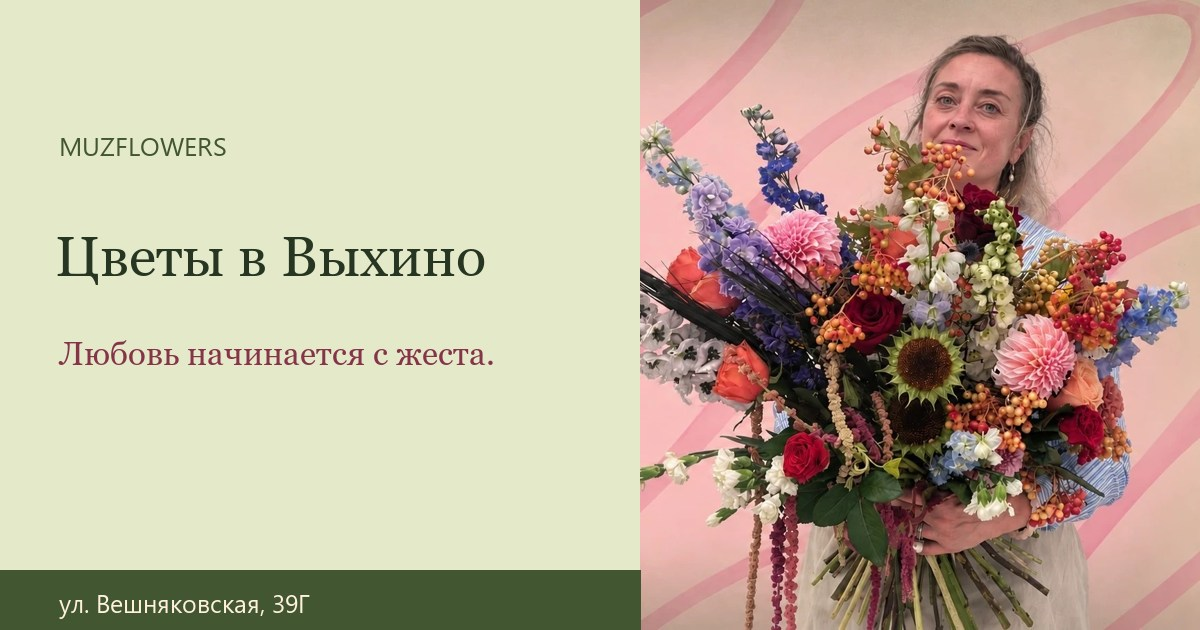
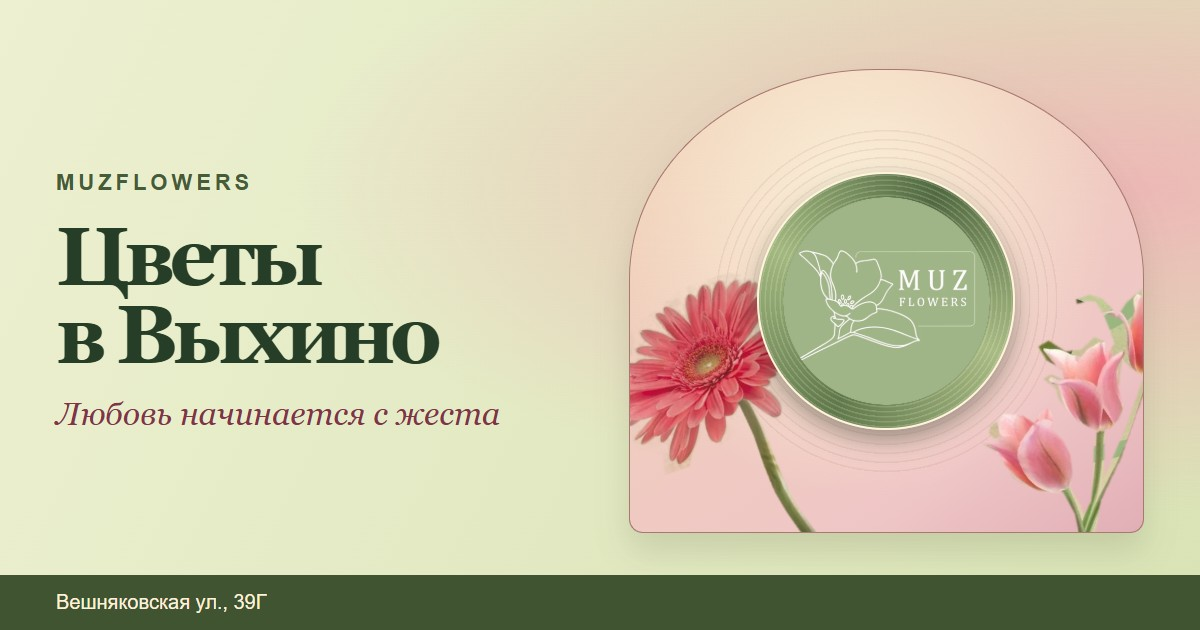
Replace homepage portrait with floral record artwork

diff --git a/static/shop/css/design.css b/static/shop/css/design.css
@@ -48,25 +48,38 @@
   font-size: .9rem;
   font-weight: 800;
 }
-.design-hero__visual { position: relative; max-width: 565px; width: 100%; justify-self: end; }
-.design-hero__photo {
+.design-hero__visual {
+  position: relative;
+  justify-self: end;
+  display: grid;
+  place-items: center;
+  max-width: 565px;
   width: 100%;
-  height: auto;
   aspect-ratio: 1.11;
-  object-fit: cover;
-  object-position: 51% 42%;
+  overflow: hidden;
   border-radius: 48% 48% .85rem .85rem / 45% 45% .85rem .85rem;
   border: 1px solid #a87971;
+  background: radial-gradient(ellipse at 45% 32%, #fbf2d9, transparent 63%),
+    linear-gradient(145deg, #f1d4b7, #efc6c6 76%, #e1aeb6);
   box-shadow: 0 18px 32px #4c483329;
 }
-.design-hero__record {
+.design-hero__visual::before {
+  content: "";
   position: absolute;
-  right: clamp(.65rem, 2.2vw, 1.7rem);
-  bottom: clamp(.65rem, 2.2vw, 1.55rem);
-  width: clamp(119px, 14vw, 208px);
+  width: 68%;
+  aspect-ratio: 1;
+  border-radius: 50%;
+  background: repeating-radial-gradient(circle, transparent 0 7px, #9c685e1c 8px 9px);
+}
+.design-hero__flower { position: absolute; height: auto; pointer-events: none; }
+.design-hero__flower--gerbera { width: 42%; left: -1%; bottom: -14%; transform: rotate(-19deg); }
+.design-hero__flower--tulips { width: 30%; right: 0; bottom: -15%; transform: rotate(23deg); }
+.design-hero__record {
+  position: relative;
+  width: clamp(128px, 53%, 258px);
   display: grid;
   justify-items: center;
-  gap: .5rem;
+  gap: .65rem;
 }
 .design-hero__disc {
   display: block;
@@ -228,10 +241,9 @@
 
 @media (max-width: 760px) {
   .design-hero__inner { grid-template-columns: 1fr; gap: 1.3rem; padding-top: 1.6rem; }
-  .design-hero__visual { justify-self: start; max-width: 550px; }
+  .design-hero__visual { justify-self: center; max-width: 550px; aspect-ratio: 1.27; }
   .design-hero__title { max-width: 11ch; font-size: clamp(3.2rem, 11.2vw, 5.2rem); }
   .design-hero__intro { margin-block: 1rem 1.15rem; }
-  .design-hero__photo { aspect-ratio: 1.27; object-position: 51% 38%; }
   .design-hero__facts { column-gap: 1rem; justify-content: flex-start; font-size: .8rem; }
   .design-faq .design-panel__body { width: 100%; }
   .design-faq__flower { opacity: .25; }

diff --git a/templates/shop/home.html b/templates/shop/home.html
@@ -17,7 +17,8 @@
       <a class="design-hero__music" href="{% url 'shop:music' %}">{% icon 'music' %} Добавить открытку с вашей песней</a>
     </div>
     <div class="design-hero__visual">
-      <img class="design-hero__photo" src="{% static 'shop/img/studio-portrait.webp' %}" alt="Наталья Боброва с авторским букетом MuzFlowers" width="882" height="909" fetchpriority="high">
+      <img class="design-hero__flower design-hero__flower--gerbera" src="{% static 'shop/img/design-gerbera.webp' %}" alt="" width="526" height="778">
+      <img class="design-hero__flower design-hero__flower--tulips" src="{% static 'shop/img/design-tulips.webp' %}" alt="" width="264" height="596">
       <div class="design-hero__record">
         <button class="design-hero__disc" type="button" data-record-toggle aria-label="Вращение эмблемы MuzFlowers" aria-pressed="false" aria-describedby="record-hint">
           <span class="design-hero__vinyl"><img src="{% static 'shop/img/logo-sage.png' %}" alt="" width="400" height="400"></span>

diff --git a/README.md b/README.md
@@ -96,7 +96,7 @@ GitHub хранит исходный код в ветке `main`. Локальн
 
 Нужны: сервер с Docker (лучше в России — персональные данные россиян по закону хранят на территории РФ), домен, HTTPS и обратный прокси.
 
-На своём компьютере остаётся SQLite, чтобы `start.bat` работал без сервера БД. Для нового боевого сайта рекомендуется `compose.yaml`: PostgreSQL для базы, Redis для общих лимитов между процессами, отдельный том для фотографий. Старый `docker run` без PostgreSQL по-прежнему подходит только для небольшого сайта с SQLite.
+Рабочий магазин на VPS использует PostgreSQL 17. При локальном запуске `start.bat` или `start.sh` используется SQLite, если в `DJANGO_DB_URL` не указано подключение к PostgreSQL. Docker Compose передаёт Django адрес рабочей базы и подключает Redis для общих лимитов между процессами. Фотографии из админки хранятся в отдельном томе.
 
 1. Создайте на сервере `.env.production` по образцу `.env.example`. Заполните `DJANGO_DEBUG=0`, `DJANGO_SECRET_KEY`, `DJANGO_ALLOWED_HOSTS`, `DJANGO_CSRF_ORIGINS`, `SITE_URL`, `DJANGO_BEHIND_PROXY=1`, `DJANGO_SETUP_TOKEN` и `POSTGRES_PASSWORD`. Пароль PostgreSQL для Compose должен состоять из букв, цифр, `-` и `_`: он подставляется в адрес подключения.
 2. Запустите сайт и проверьте статус контейнеров:
@@ -106,7 +106,7 @@ docker compose --env-file .env.production up -d --build
 docker compose --env-file .env.production ps
 ```
 
-3. HTTP-порт слушает только `127.0.0.1:8000`: настройте nginx или прокси хостинга для домена и HTTPS. Не открывайте PostgreSQL и Redis наружу.
+3. Настройте nginx или прокси хостинга для домена и HTTPS. Приложение доступно на `127.0.0.1:8000`. Настройте также выдачу `/media/` из каталога с фотографиями, который доступен прокси и приложению (`/data/media` внутри контейнера Django). Проверьте по HTTPS фото букета, загруженное через админку. PostgreSQL и Redis доступны во внутренней сети Compose.
 4. Создайте первого владельца по адресу `https://ваш-сайт/accounts/setup/?token=ВАШ_КОД`, затем смените одноразовый код.
 5. Проверьте заказ с телефона, Telegram-уведомление и тестовый платёж.
 
